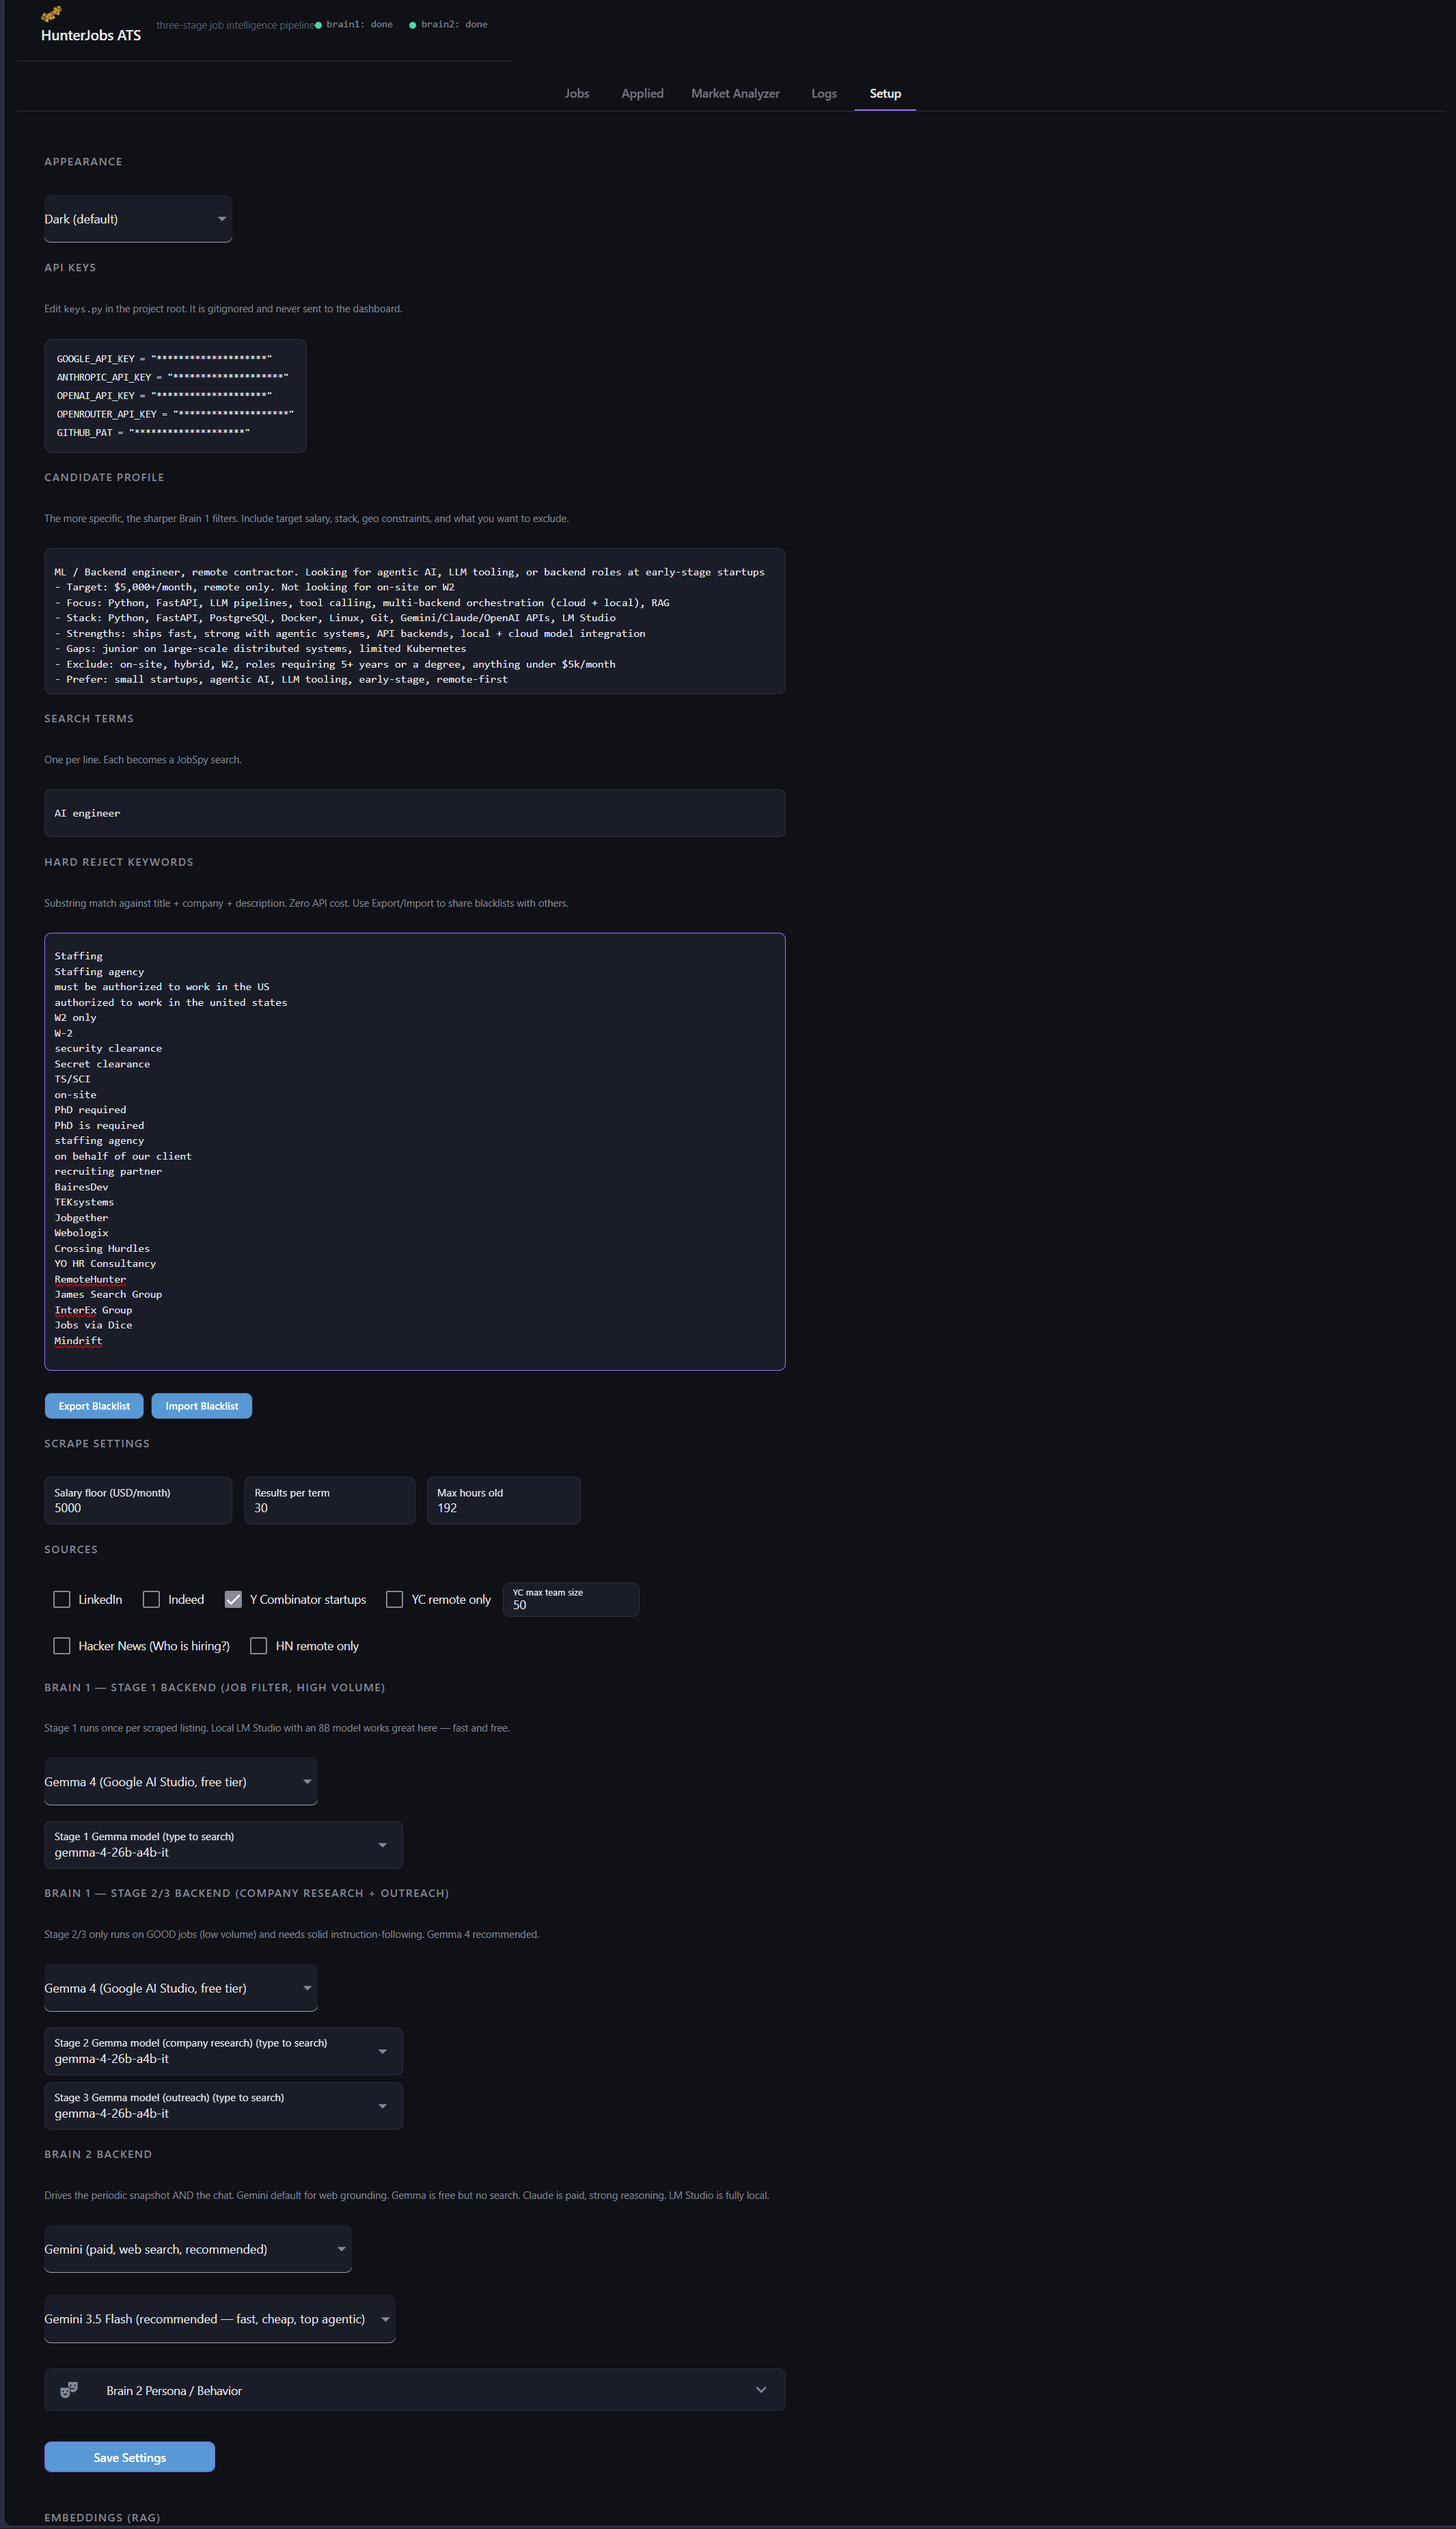
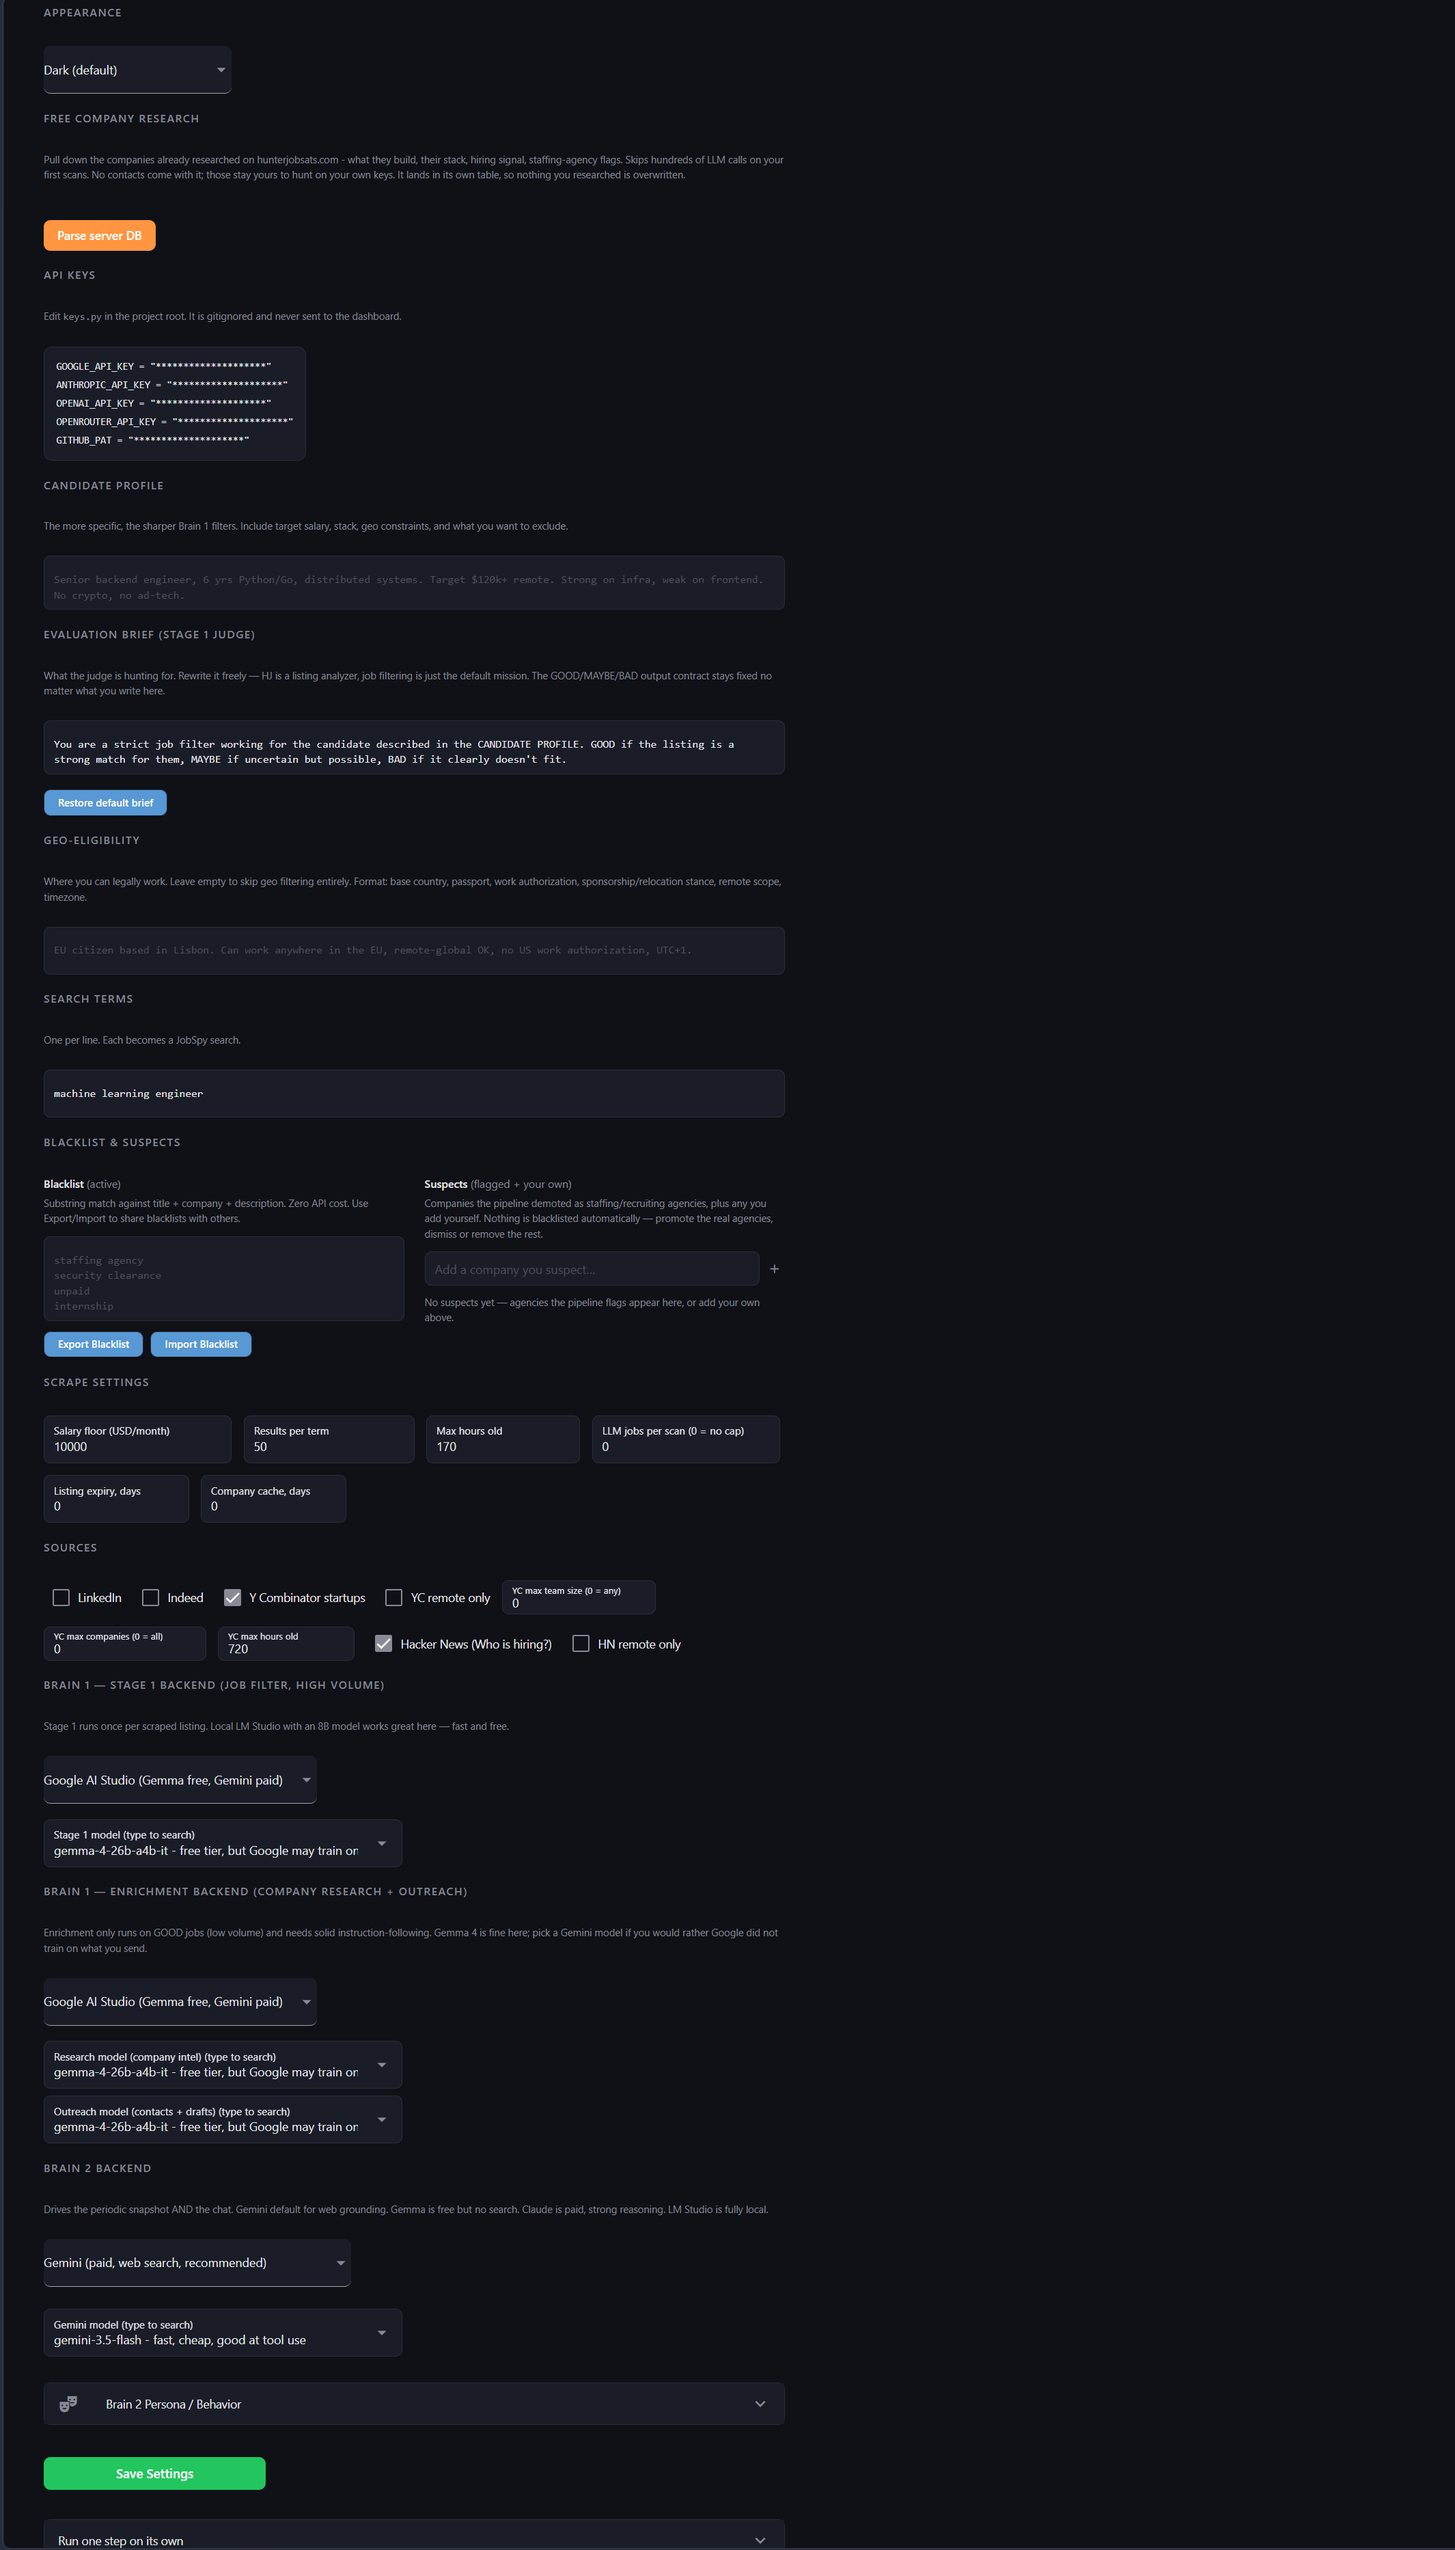
readme: drop the 'free' framing, refresh the stale screenshots
'Free domain resolution' reads odd in a repo where everything already is -
the point was never cost, it's that no search call is needed. Reworded. The
hosted service keeps its free-tier wording; there it actually means something.

The Jobs and Setup shots had been deleted locally while the README still
pointed at those filenames; committing that as-is would have broken four
images. Replaced with current captures - the old Jobs one predated the
Companies tab, showed the pre-purple theme and rendered a visible 'nan'.

diff --git a/README.md b/README.md
@@ -24,7 +24,7 @@
 </p>
 
 <p align="center">
-  <sub><strong>v0.8.5 just shipped</strong> - one button pulls down a few thousand companies I already researched plus YC/HN listings to judge, every model picker is live, and company domains now resolve for free so a search key is optional far more often. <a href="#changelog--roadmap">See changelog &darr;</a></sub>
+  <sub><strong>v0.8.5 just shipped</strong> - one button pulls down a few thousand companies I already researched plus YC/HN listings to judge, every model picker is live, and company domains now resolve on their own, so a search key is optional far more often. <a href="#changelog--roadmap">See changelog &darr;</a></sub>
 </p>
 
 ---
@@ -168,7 +168,7 @@ Open the **Setup** tab and:
 4. Edit the **Hard Rejects** keyword list. Anything matched here gets auto-BAD without burning an LLM call. Default list catches the obvious staffing/recruiting/US-only stuff. You can export/import this as a `.txt` to share with others.
 5. Pick your backends. Brain 1's Stage 1 and Enrichment are set separately, and every picker is live - it asks the provider what it serves today rather than reading a list I hardcoded and forgot to update. Defaults are sensible: Gemma 4 for Brain 1, Gemini Flash for Brain 2. On Google you can pick either family; Gemma is the free tier (Google may train on what you send it), Gemini is paid and they don't.
 6. **Fastest start: hit the orange "Parse server DB" button** at the top of Setup. It pulls down ~1,900 companies I've already researched plus ~3,100 YC and Hacker News listings, so your first run has something to judge and skips the research bill on companies already known. Nothing in it is judged for you - your profile decides. It brings no contacts and no LinkedIn/Indeed listings; hunt and scrape those yourself.
-7. **Recommended: add a `TAVILY_API_KEY` or `SERPER_API_KEY`** (both have free tiers). The keyless fallback works from some connections and not others - datacenter IPs get starved and several countries get captcha-walled, and when search silently returns nothing the company research quietly gets much worse. I found this the hard way: 92% of one enrichment run came back with no sources read. With a key it was 0%. As of v0.8.5 most company domains resolve for free before search is consulted at all, so this matters less than it did - but the companies that *don't* resolve are exactly the obscure ones where research is worth most.
+7. **Recommended: add a `TAVILY_API_KEY` or `SERPER_API_KEY`** (both have free tiers). The keyless fallback works from some connections and not others - datacenter IPs get starved and several countries get captcha-walled, and when search silently returns nothing the company research quietly gets much worse. I found this the hard way: 92% of one enrichment run came back with no sources read. With a key it was 0%. As of v0.8.5 most company domains are resolved directly before search is consulted at all, so this matters less than it did - but the companies that *don't* resolve are exactly the obscure ones where research is worth most.
 8. (Optional) Hit **Backfill embeddings** to enable "similar past applications" over jobs you scraped before the RAG feature existed.
 
 ![Market Analyzer](screenshots/market_analyzer.png)
@@ -206,7 +206,7 @@ Your `keys.py` is gitignored. Don't commit it.
 - **Companies tab** - search everything you have intel on, grows as you scroll. Useful the night before an interview
 - **Live model pickers everywhere** - no hardcoded model lists left to go stale. Every backend asks the provider what it serves today, with sensible picks pinned on top. Google now offers Gemini as well as Gemma: same client, and the paid tier means they don't train on what you send
 - **Run one step on its own** - a drawer in Setup with Scrape only and Enrich only, for when you want listings banked now and the LLM spend later
-- **Free domain resolution** - LinkedIn hands over a company name and nothing else, so 98% of newly-seen companies had no domain and every one of them burned a paid web search just to find a homepage. Names now resolve to a domain for free, and nothing is trusted until the page says the company's name back: a one-word company must own the domain label outright, and only `.com` is ever guessed because `.io`/`.ai`/`.co` lookalikes are squatter territory (`openai.co` is not OpenAI). 13 of 20 real cases resolve with no search call at all, which also means a search key is optional far more often
+- **Company domains resolve without a search call** - LinkedIn hands over a company name and nothing else, so 98% of newly-seen companies had no domain and every one of them burned a paid web search just to find a homepage. Names now resolve to a domain directly, and nothing is trusted until the page says the company's name back: a one-word company must own the domain label outright, and only `.com` is ever guessed because `.io`/`.ai`/`.co` lookalikes are squatter territory (`openai.co` is not OpenAI). 13 of 20 real cases resolve with no search call at all, which also means a search key is optional far more often
 - **Companies tab reads the seed** - it only ever queried your own research, so anyone whose companies came from the imported seed - which is every new install - saw an empty grid. It now shows both, yours winning on a clash, seeded rows labelled SERVER INTEL
 - Test suite 133 -> 152
 
